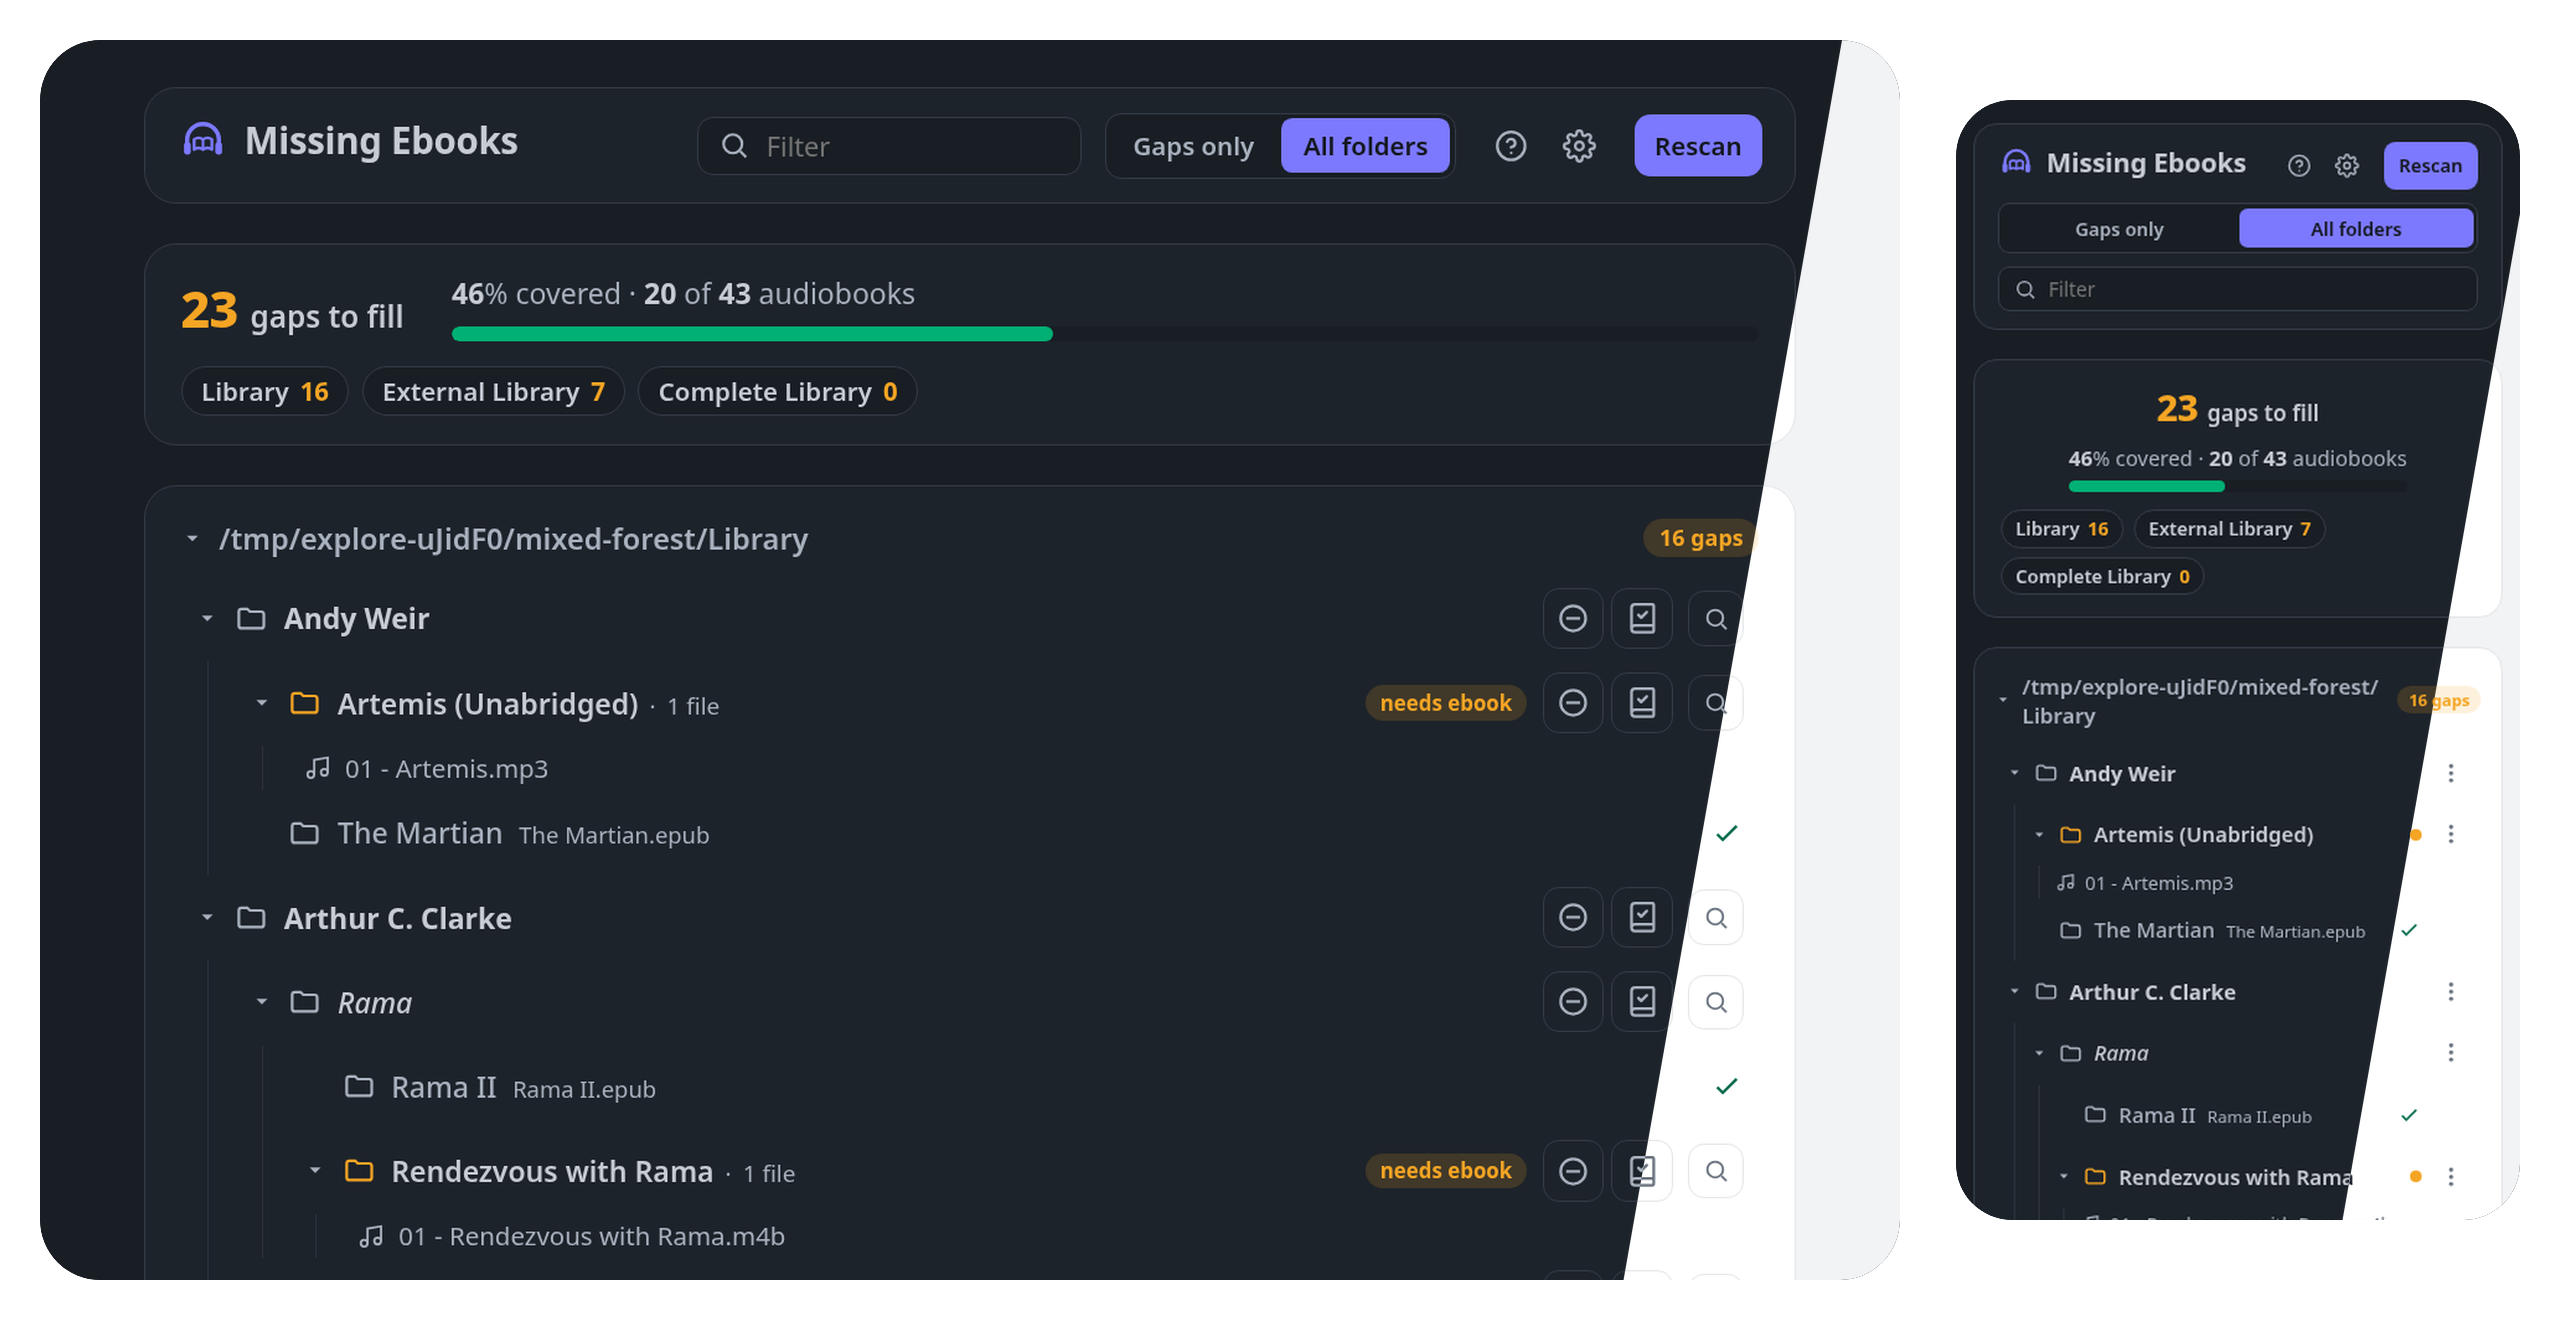
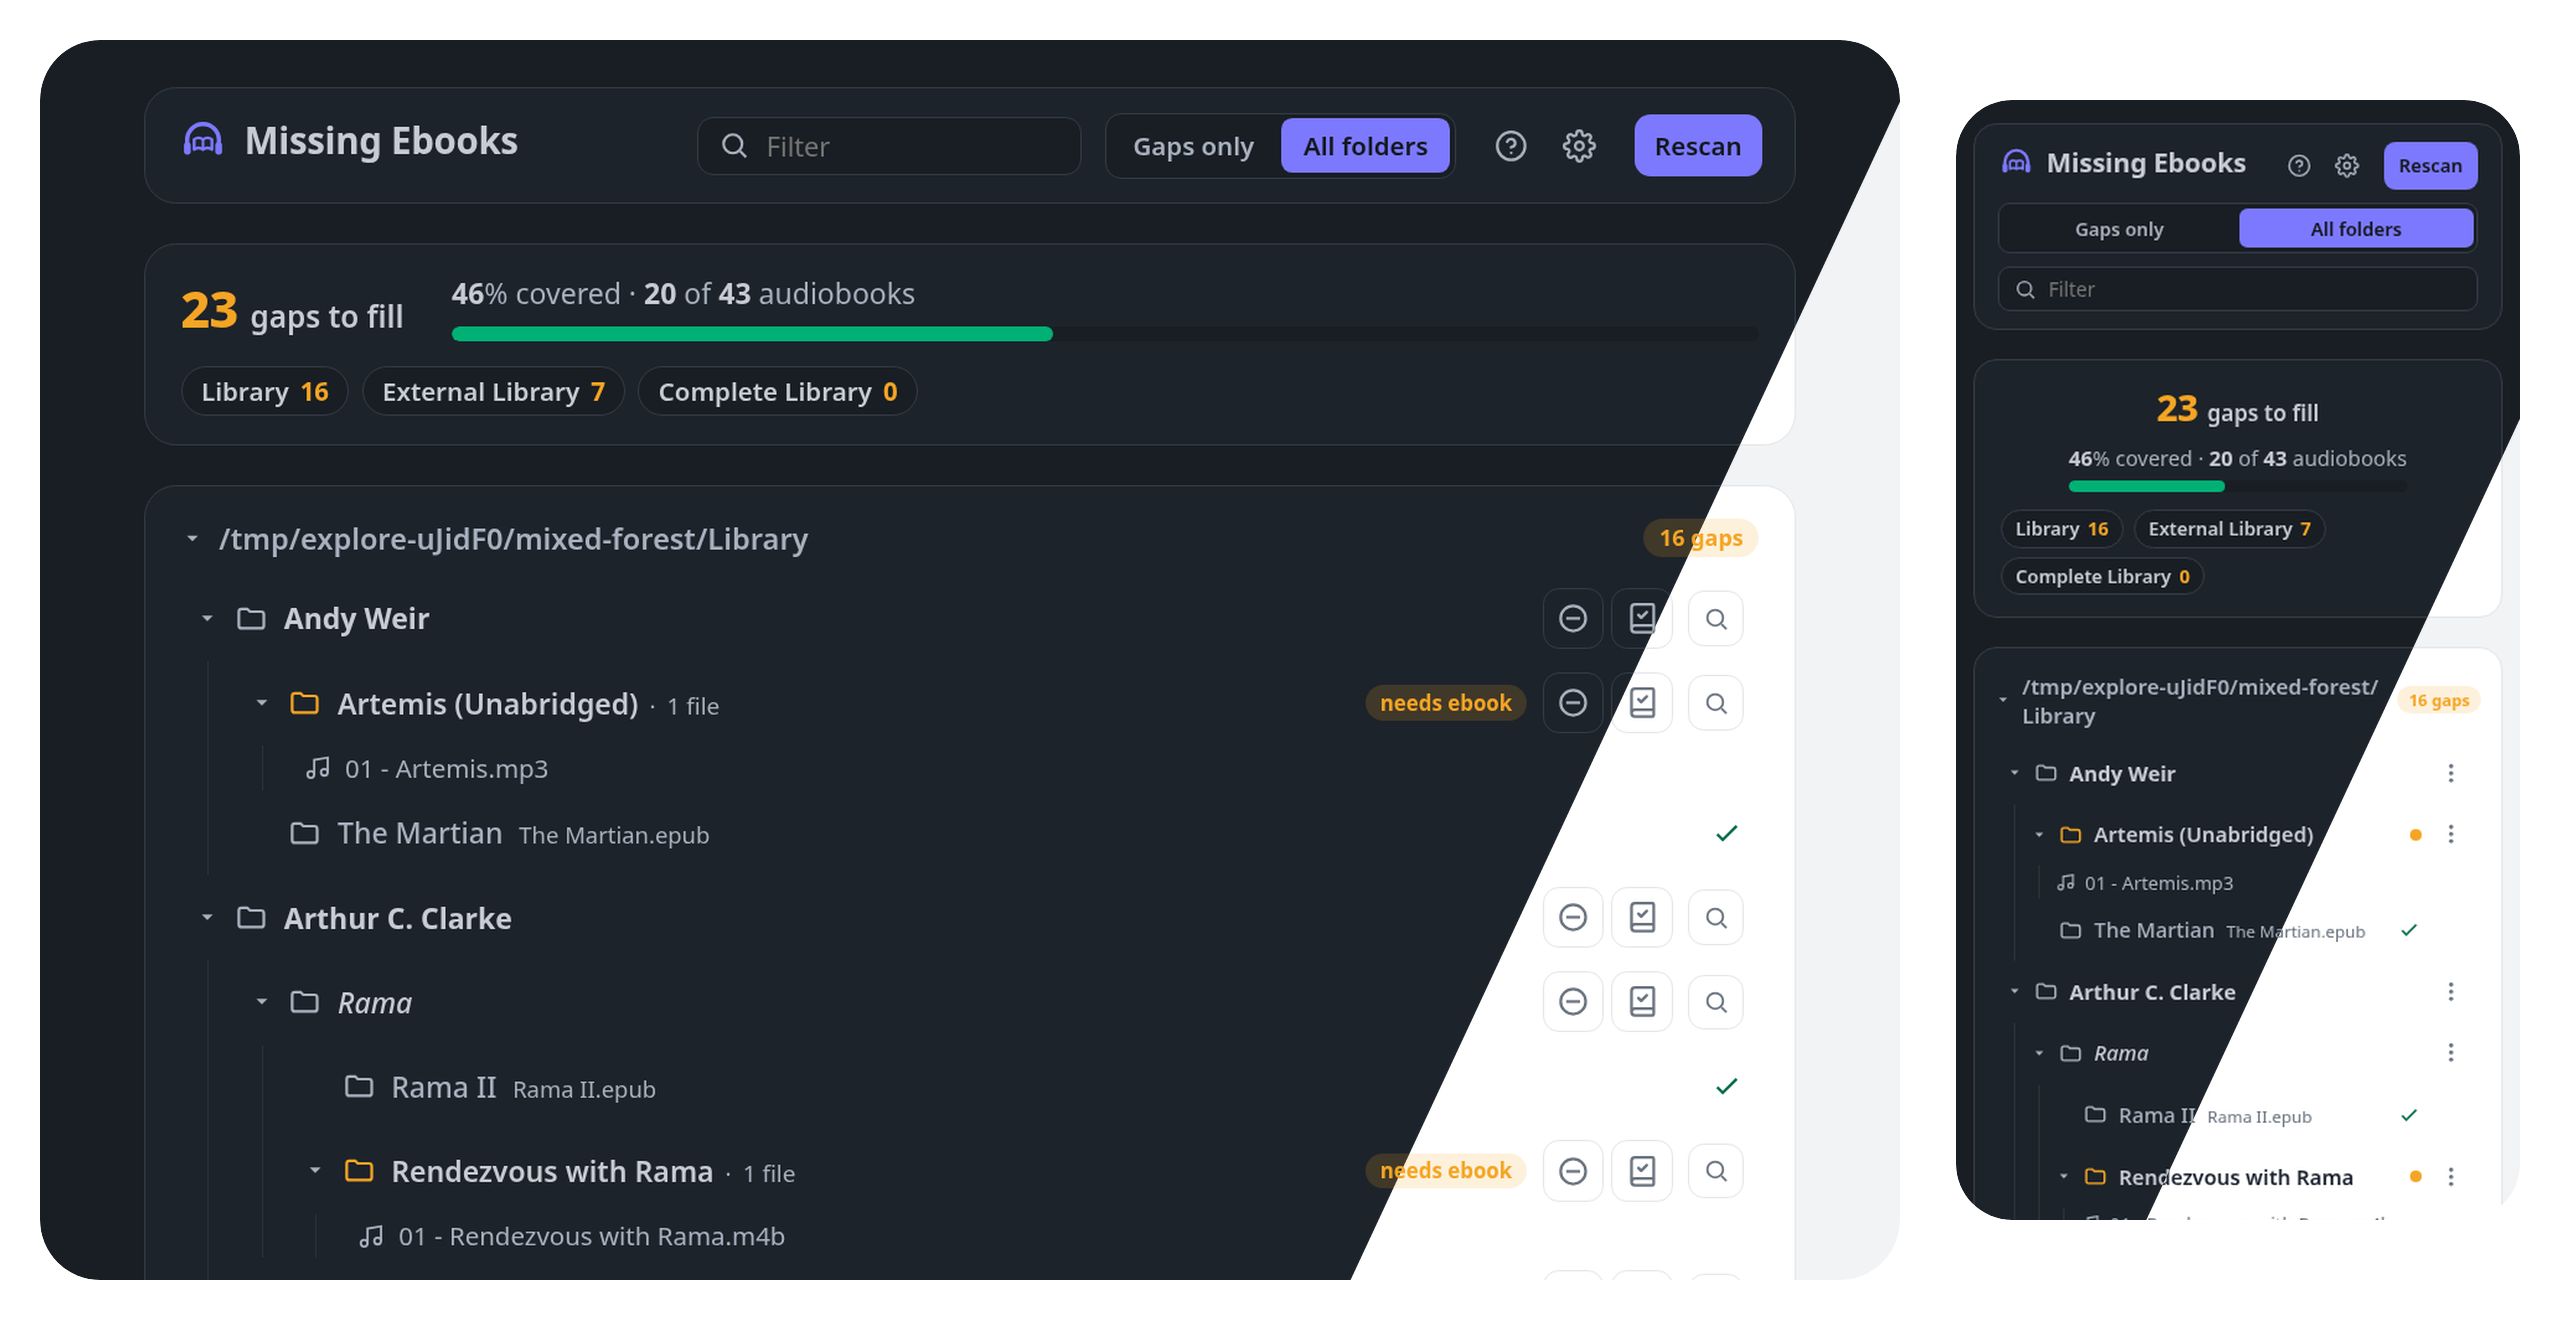
docs: refresh README screenshot composition
Update the README graphic with a steeper theme split and larger contrast reveal, and keep the reproduction recipe in sync.

diff --git a/docs/screenshot-recipe.md b/docs/screenshot-recipe.md
@@ -84,7 +84,7 @@ import math
 
 from PIL import Image, ImageDraw
 
-ANGLE_DEGREES = 80
+ANGLE_DEGREES = 65
 RESAMPLE = Image.Resampling.LANCZOS
 
 
@@ -112,10 +112,10 @@ def diagonal(left_path, right_path, out_path, size, reveal_ratio):
     right.save(out_path, optimize=True)
 
 
-diagonal('.scratch/screenshots/desktop-light.png', '.scratch/screenshots/desktop-dark.png', '.scratch/screenshots/desktop-light-composite.png', (1860, 1240), 0.91)
-diagonal('.scratch/screenshots/mobile-light.png', '.scratch/screenshots/mobile-dark.png', '.scratch/screenshots/mobile-light-composite.png', (564, 1120), 0.86)
-diagonal('.scratch/screenshots/desktop-dark.png', '.scratch/screenshots/desktop-light.png', '.scratch/screenshots/desktop-dark-composite.png', (1860, 1240), 0.91)
-diagonal('.scratch/screenshots/mobile-dark.png', '.scratch/screenshots/mobile-light.png', '.scratch/screenshots/mobile-dark-composite.png', (564, 1120), 0.86)
+diagonal('.scratch/screenshots/desktop-light.png', '.scratch/screenshots/desktop-dark.png', '.scratch/screenshots/desktop-light-composite.png', (1860, 1240), 0.86)
+diagonal('.scratch/screenshots/mobile-light.png', '.scratch/screenshots/mobile-dark.png', '.scratch/screenshots/mobile-light-composite.png', (564, 1120), 0.80)
+diagonal('.scratch/screenshots/desktop-dark.png', '.scratch/screenshots/desktop-light.png', '.scratch/screenshots/desktop-dark-composite.png', (1860, 1240), 0.86)
+diagonal('.scratch/screenshots/mobile-dark.png', '.scratch/screenshots/mobile-light.png', '.scratch/screenshots/mobile-dark-composite.png', (564, 1120), 0.80)
 PY
 
 cat > .scratch/screenshots/contact-sheet.html <<'HTML'
